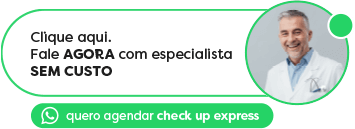
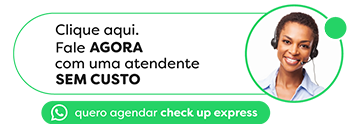
Ajuste SOS

diff --git a/application/views/default/site/include/footer.php b/application/views/default/site/include/footer.php
@@ -81,20 +81,43 @@
 
 </style>
 
-<div class="btn-whats-fixo" style="display:none; position: fixed;right: 20px;bottom: 30px;z-index: 99">
+<?php $url = $_SERVER['REQUEST_URI']; ?>
 
-    <div class="ajuda-whats">
-        <a href="https://api.whatsapp.com/send?phone=5508005809771?&text=Quero%20agendar%20um%20checkup%20express" target="_blank">
-            <img class="img-mobile-whats" src="<?= base_url(); ?>arquivos/assets/img/pop-up-whats.png">
+<?php if (strpos($url, '/blog') === false) : ?>
+
+    <div class="btn-whats-fixo" style="display:none; position: fixed;right: 20px;bottom: 30px;z-index: 99">
+
+        <div class="ajuda-whats">
+            <a href="https://api.whatsapp.com/send?phone=5508005809771?&text=Entre em contato conosco" target="_blank">
+                <img class="img-mobile-whats" src="<?= base_url(); ?>arquivos/assets/img/pop-up-whats.png">
+            </a>
+        </div>
+
+        <a class="mobile" href="https://api.whatsapp.com/send?phone=5508005809771?&amp;text=Entre em contato conosco" target="_blank">
+            <button class="pulsando" style="background-color: #25D366;height: 50px;padding-bottom: 7px;width: 240px;color: #ffffff;font-weight: 800;font-size: 13px;border-radius: 15px;border: none;margin: 0 auto;display: block;" formtarget="_blank">
+                Fale sem custo com um atendente AGORA
+            </button>
         </a>
     </div>
 
-    <a class="mobile" href="https://api.whatsapp.com/send?phone=5508005809771?&text=Quero%20agendar%20um%20checkup%20express" target="_blank">
-        <button style="background-color: #25D366;height: 50px;padding-bottom: 7px; width: 240px;color: #ffffff;font-weight: 800;font-size: 13px;border-radius: 15px; border: none;" formtarget="_blank">
-            <img style="margin-bottom: -8px;" width="30px" src="<?= base_url(); ?>arquivos/assets/img/btn-whtas.png">&nbsp;FALAR NO WHATSAPP
-        </button>
-    </a>
-</div>
+<?php else: ?>
+
+    <div class="btn-whats-fixo" style="display:none; position: fixed;right: 20px;bottom: 30px;z-index: 99">
+
+        <div class="ajuda-whats">
+            <a href="https://api.whatsapp.com/send?phone=5508005809771?&text=Quero fazer um check up express" target="_blank">
+                <img class="img-mobile-whats" src="<?= base_url(); ?>arquivos/assets/img/pop-up-whats.png">
+            </a>
+        </div>
+
+        <a class="mobile" href="https://api.whatsapp.com/send?phone=5508005809771?&amp;text=Quero fazer um check up express" target="_blank">
+            <button class="pulsando" style="background-color: #25D366;height: 50px;padding-bottom: 7px;width: 240px;color: #ffffff;font-weight: 800;font-size: 13px;border-radius: 15px;border: none;margin: 0 auto;display: block;" formtarget="_blank">
+                Fale sem custo com um atendente AGORA
+            </button>
+        </a>
+    </div>
+
+<?php endif;?>
 
 <!-- Footer -->
 <footer>
@@ -161,8 +184,6 @@
 <script src="https://cdnjs.cloudflare.com/ajax/libs/materialize/0.100.2/js/materialize.min.js"></script>
 
 <?php
-
-    $url = $_SERVER['REQUEST_URI'];
 
         if (strpos($url, '/blog') === false)
         {

diff --git a/application/controllers/Ajax.php b/application/controllers/Ajax.php
@@ -326,12 +326,54 @@ class Ajax extends CI_Controller
         $dados = null;
         $envia = null;
         $curl = null;
+        $ownerUser = 0;
         $token = "16db1517-189a-4874-b5bb-58e1d627abc8";
 
 
         // Verifica se informou a unidade
         if (!empty($_POST['id_unidade']))
         {
+
+            if ($_POST['lp'] == "Landing page Implante")
+            {
+                // Verificando a unidade
+                if($_POST['id_unidade'] == 8) // Bauru
+                {
+                    $ownerUser = "vani.pereira@sosdr.com";
+                }
+                elseif ($_POST['id_unidade'] == 5) // Nova Marilia
+                {
+                    $ownerUser = "anajuliavis2@gmail.com";
+                }
+                elseif ($_POST['id_unidade'] == 4) // Marilia Centro
+                {
+                    $ownerUser = "franciellysantosmeledavi@gmail.com";
+                }
+                else
+                {
+                    $ownerUser = 0;
+                }
+            }
+            elseif ($_POST['lp'] == "Landing page Laboratório")
+            {
+                // Verificando a unidade
+                if($_POST['id_unidade'] == 8) // Bauru
+                {
+                    $ownerUser = "vinicius.pereira@sosdr.com";
+                }
+                elseif ($_POST['id_unidade'] == 5) // Nova Marilia
+                {
+                    $ownerUser = "amandacoutosant@gmail.com";
+                }
+                elseif ($_POST['id_unidade'] == 4) // Marilia Centro
+                {
+                    $ownerUser = "amandacoutosant@gmail.com";
+                }
+                else
+                {
+                    $ownerUser = 0;
+                }
+            }
 
             // inicia a conexão
             $curl = curl_init();
@@ -342,7 +384,8 @@ class Ajax extends CI_Controller
                 "contact" => [
                     "mobile" => $_POST['telefone'],
                     "email" => (!empty($_POST['email']) ? $_POST['email'] : "emailnaoinformado@gmail.com")
-                ]
+                ],
+                "ownerUser" => $ownerUser
             ];
 
             // Array de configuração
@@ -387,6 +430,7 @@ class Ajax extends CI_Controller
                 // Dados para enviar para API
                 $enviaAPI2 = [
                     "title" => $_POST['lp'],
+                    "ownerUser" => $ownerUser
                 ];
 
                 curl_setopt_array($curl2, array(

diff --git a/application/views/default/site/include/header-lp.php b/application/views/default/site/include/header-lp.php
@@ -126,7 +126,7 @@
             </button>
 
             <h4 id="txtTituloExame">Agende agora</h4>
-            <p style="text-align: center; padding-top: 10px;">já vamos te direcionar, mas por via das dúvidas deixe seu contato para que um especialista possa entrar em contato</p>
+            <p style="text-align: center; padding-top: 10px;">já vamos te direcionar, mas por via das dúvidas deixe seu contato para que um atendente possa entrar em contato</p>
 
             <form id="formWhats">
 
@@ -159,7 +159,7 @@
             </button>
 
             <h4 id="txtTituloExame">Agende agora</h4>
-            <p style="text-align: center; padding-top: 10px;">já vamos te direcionar, mas por via das dúvidas deixe seu contato para que um especialista possa entrar em contato</p>
+            <p style="text-align: center; padding-top: 10px;">já vamos te direcionar, mas por via das dúvidas deixe seu contato para que um atendente possa entrar em contato</p>
 
             <form id="formContatoLP">
 

diff --git a/application/views/default/site/blog_detalhes.php b/application/views/default/site/blog_detalhes.php
@@ -137,7 +137,7 @@
 
         <a class="mobile" href="https://api.whatsapp.com/send?phone=5508005809771?&text=Quero%20agendar%20um%20checkup%20express" target="_blank">
             <button class="pulsando" style="background-color: #25D366;height: 50px;padding-bottom: 7px; width: 240px;color: #ffffff;font-weight: 800;font-size: 13px;border-radius: 15px; border: none;" formtarget="_blank">
-                Fale sem custo com especialista AGORA
+                Fale sem custo com um atendente AGORA
             </button>
         </a>
     </div>
@@ -308,7 +308,7 @@
                     border: none;
                     position: relative;
                     top: -160px;" formtarget="_blank">
-                            Quero falar com um especialista sem custo
+                            Quero falar com um atendente sem custo
                         </button>
                     </a>
                 </div>

diff --git a/application/views/default/site/lps/lp-implante.php b/application/views/default/site/lps/lp-implante.php
@@ -138,7 +138,7 @@
                     <form class="contatoLP">
                         <div class="card-form">
 
-                            <h1>Deixe seu contato, um especialista vai entrar em contato ainda hoje!</h1>
+                            <h1>Deixe seu contato, um atendente vai entrar em contato ainda hoje!</h1>
 
 
                             <select name="id_unidade" required>
@@ -452,7 +452,7 @@
             <form class="contatoLP">
                 <div class="card-form">
 
-                    <h1>Deixe seu contato, um especialista vai entrar em contato ainda hoje!</h1>
+                    <h1>Deixe seu contato, um atendente vai entrar em contato ainda hoje!</h1>
 
 
                     <select name="id_unidade" required>

diff --git a/application/views/default/site/lps/lp-laboratorio.php b/application/views/default/site/lps/lp-laboratorio.php
@@ -98,7 +98,7 @@
                 <form id="contatoLP" class="contatoLP">
                     <div class="card-form">
 
-                        <h1>Deixe seu contato, um especialista vai entrar em contato ainda hoje!</h1>
+                        <h1>Deixe seu contato, um atendente vai entrar em contato ainda hoje!</h1>
 
 
                         <select name="id_unidade" required>
